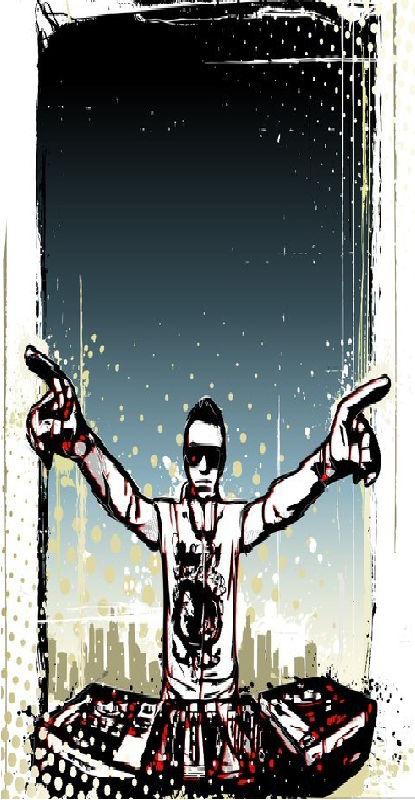
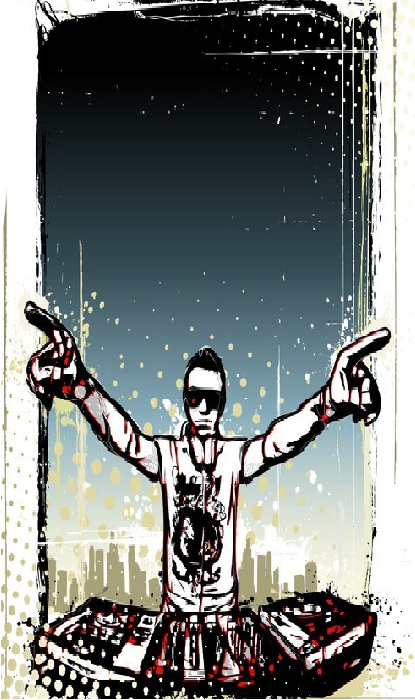
Home finished

diff --git a/web/home.css b/web/home.css
@@ -65,41 +65,274 @@ h2{
     color: white;
     font-size: 1.8rem;    
 }
+
+p{
+    text-align: center;
+    font-family: 'Times New Roman', Times, serif;
+    color: white;
+    font-size: 1rem;
+}
+
+
+h3{
+    text-align: center;
+    font-family: 'Times New Roman', Times, serif;
+    font-size: 1.8rem;
+    color: black;
+    text-transform: uppercase; 
+}
+
+h3::before{
+    content: attr(data-text);
+    position: absolute;
+    height: 4%;
+    color: #03495B;
+    -webkit-text-stroke: 0vw #363736;
+    border-right: 5px solid #03495B;
+    overflow: hidden;
+    animation: animate 8s linear infinite;
+}
+
+@keyframes animate
+{
+    0%,10%,100%
+    {
+        width: 0;
+    }
+    70%,90%{
+        width: 40%;
+    }
+}
 a{
     padding-left: 7.5%;}
-
-.live{
-    border-style: solid;
-    border-width: auto;
-    border-color: #F5C810;
-    text-align: center;
-    margin-top: 100px;
-    margin-bottom: 100px;
-    margin-right: 450px;
-    margin-left: 450px;
-    background-color: lightblue;
-}
 
 .video1{
     border-style: solid;
     border-width: medium;
-    border-color: #4C035B;
+    border-color: #03495B;
     align-items: center;
     float: left;
-    height: 800px;
+    height: 2000px;
     width: 415px;
     margin-left: 10px;
+    position: absolute;
+}
+.follow{
+    margin-top: 15px;
+    height: 420px;
+    width: 415px;
+    transition: none;
+    background-image: url(../pictures/instagram.jpg);
+    background-repeat: no-repeat;
+    background-position: center;
+    justify-content: right;
+    align-items: center;
+    float: right;
+}
+.follow p{
+    opacity: 0;
+    transform: scale(0);
+    transition: 1.2s;
+    font-size: 1.2rem;
+    color: white;
+    -webkit-transform: scale(0);
+    -moz-transform: scale(0);
+    -ms-transform: scale(0);
+    -o-transform: scale(0);
+    -webkit-transition: 1.2s;
+    -moz-transition: 1.2s;
+    -ms-transition: 1.2s;
+    -o-transition: 1.2s;
+}
+.follow:hover{
+    height: 420px;
+    width: 415px;
+    box-shadow: 0 0 0 700px rgba(0, 0, 0, 0.8) inset;
+}
+.follow:hover p{
+    opacity: 1;
+    transform: scale(1);
+    -webkit-transform: scale(1);
+    -moz-transform: scale(1);
+    -ms-transform: scale(1);
+    -o-transform: scale(1);
 }
 
-.icon2{
+.logo{
+    margin-top: 15px;
+    height: 570px;
+    width: 415px;
+    transition: none;
+    background-image: url(../pictures/icon2.jpg);
+    background-repeat: no-repeat;
+    background-position: center;
+    justify-content: right;
+    align-items: center;
+    float: right;
+}
+
+.follow2{
+    margin-top: 15px;
+    height: 270px;
+    width: 415px;
+    transition: none;
+    background-image: url(../pictures/tiktok.jpg);
+    background-repeat: no-repeat;
+    background-position: center;
+    justify-content: right;
+    align-items: center;
+    float: right;
+}
+.follow2 p{
+    opacity: 0;
+    transform: scale(0);
+    transition: 1.2s;
+    font-size: 1.2rem;
+    color: white;
+    -webkit-transform: scale(0);
+    -moz-transform: scale(0);
+    -ms-transform: scale(0);
+    -o-transform: scale(0);
+    -webkit-transition: 1.2s;
+    -moz-transition: 1.2s;
+    -ms-transition: 1.2s;
+    -o-transition: 1.2s;
+}
+.follow2:hover{
+    height: 270px;
+    width: 415px;
+    box-shadow: 0 0 0 700px rgba(0, 0, 0, 0.8) inset;
+}
+.follow2:hover p{
+    opacity: 1;
+    transform: scale(1);
+    -webkit-transform: scale(1);
+    -moz-transform: scale(1);
+    -ms-transform: scale(1);
+    -o-transform: scale(1);
+}
+
+.about{
+    border-style: solid;
+    border-width: medium;
+    border-color: #03495B;
+    align-items: center;
+    float: right;
+    height: 2000px;
+    width: 415px;
+    margin-right: 10px;
+}
+
+.drinks{
+    height: 700px;
+    width: 415px;
+    transition: none;
+    background-image: url(../pictures/drinks.jpg);
+    background-repeat: no-repeat;
+    background-position: center;
+    justify-content: right;
+    align-items: center;
+    float: right;
+}
+.drinks p{
+    opacity: 0;
+    transform: scale(0);
+    transition: 1.2s;
+    font-size: 1.2rem;
+    color: white;
+    -webkit-transform: scale(0);
+    -moz-transform: scale(0);
+    -ms-transform: scale(0);
+    -o-transform: scale(0);
+    -webkit-transition: 1.2s;
+    -moz-transition: 1.2s;
+    -ms-transition: 1.2s;
+    -o-transition: 1.2s;
+}
+.drinks:hover{
+    height: 700px;
+    width: 415px;
+    box-shadow: 0 0 0 700px rgba(0, 0, 0, 0.8) inset;
+}
+.drinks:hover p{
+    opacity: 1;
+    transform: scale(1);
+    -webkit-transform: scale(1);
+    -moz-transform: scale(1);
+    -ms-transform: scale(1);
+    -o-transform: scale(1);
+}
+
+.logo{
+    margin-top: 15px;
+    height: 570px;
+    width: 415px;
+    transition: none;
+    background-image: url(../pictures/icon2.jpg);
+    background-repeat: no-repeat;
+    background-position: center;
+    justify-content: right;
+    align-items: center;
+    float: right;
+}
+
+.explore{
+    margin-top: 15px;
+    height: 700px;
+    width: 415px;
+    transition: none;
+    background-image: url(../pictures/party.jpg);
+    background-repeat: no-repeat;
+    background-position: center;
+    justify-content: right;
+    align-items: center;
+    float: right;
+}
+.explore p{
+    opacity: 0;
+    transform: scale(0);
+    transition: 1.2s;
+    font-size: 1.2rem;
+    color: white;
+    -webkit-transform: scale(0);
+    -moz-transform: scale(0);
+    -ms-transform: scale(0);
+    -o-transform: scale(0);
+    -webkit-transition: 1.2s;
+    -moz-transition: 1.2s;
+    -ms-transition: 1.2s;
+    -o-transition: 1.2s;
+}
+.explore:hover{
+    height: 700px;
+    width: 415px;
+    box-shadow: 0 0 0 700px rgba(0, 0, 0, 0.8) inset;
+}
+.explore:hover p{
+    opacity: 1;
+    transform: scale(1);
+    -webkit-transform: scale(1);
+    -moz-transform: scale(1);
+    -ms-transform: scale(1);
+    -o-transform: scale(1);
+}
+
+
+.text{
     border-style: solid;
     border-width: medium;
     border-color: #4C035B;
     align-items: center;
-    float: right;
-    height: 800px;
-    width: 415px;
-    margin-right: 10px;
+    background-image: url(../pictures/DJ.jpg);
+    background-repeat: no-repeat;
+    background-size: cover;
+    height: 2000px;
+    width: 900px;
+    position: absolute;
+    left: 0;
+    right: 0;
+    margin-left: auto;
+    margin-right: auto;
 }
 
 .mySlides{
@@ -109,7 +342,5 @@ a{
 
 body{
     background-color: black;
-    background-repeat: no-repeat;
-    background-size: cover;
     font-family: 'Times New Roman', Times, serif;
 }

diff --git a/web/home.html b/web/home.html
@@ -21,18 +21,74 @@
             </ul>
         </div>
     </div>
-    <div class="live">
-        <img src="../pictures/hiphop.jpg" height="200px" width="200px">
+    <br><br>
+    <div class="information">
+        <h3 data-text="Working hours:
+        Friday and Saturday 20:00-6:00">Working hours:
+            Friday and Saturday from 20:00-6:00
+        </h3> 
     </div>
+    <br><br>
+    <div class="text">
+    <h2>RAP BATTLE</h2>
+        <br>
+        <p>Only on Saturday, 8.5.2022.!
+            <br><br>
+            <img src="../pictures/rap.jpg" width="400px" height="400px">
+            <br><br>
+        See our local musicians fighting for glory and fame!
+        </p>
+        <br><br>
+    <h2>TECHNO NIGHT</h2>
+        <br>
+        <p>Friday 13.5.2022. and Saturday 14.5.2022.!
+            <br><br>
+            <img src="../pictures/technomusic.png" width="400px" height="400px">
+            <br><br>
+            Enjoy in a great sound of our talented musicians!
+        </p>
+        <br><br>
+        <h2>ROCK PARTY</h2>
+        <br>
+        <p>Saturday 21.5.2022.!
+            <br><br>
+            Intersted in a night full of famous rock songs?
+            <br><br>
+            <img src="../pictures/rock.jpeg" width="400px" height="400px">
+            <br><br>
+            Just at us listen to the greatests hits!
+        </p>   
+    </div>     
     <div class="video1" style="max-width:415px">
         <img class="mySlides" src="../pictures/hiphopposter.jpg" style="width:100%">
         <img class="mySlides" src="../pictures/rockposter.png" style="width:100%">
         <img class="mySlides" src="../pictures/poster.png" style="width:100%">
+        <div class="logo"></div>
+        <div class="follow">
+            <p>Follow us on Instagram: @LionClubCroatia</p>
+        </div>
+        <div class="follow2">
+            <p>You can also follow us on TikTok: LionClubCroatia</p>
+        </div>
     </div>
 
-    <div class="icon2" style="max-width: 415px">
-        <img src="../pictures/icon2.png" style="width: 100%">
+
+    <div class="about" style="max-width:415px">
+        <div class="drinks">
+        <p>We offer you great number of most famous drinks!</p>
+        <br><br>
+        <p>We have contracts with the best companies just to make our visitors happy.</p>
+        <br><br>
+        <p>We definitely recommend to try out our new Gin and Whiskey!</p>
+        </div>
+        <div class="logo"></div>
+        <div class="explore">
+            <p>We try to arrange famous musicians all over the world!</p>
+            <br><br>
+            <p>But we also promote our local musicians by playing their music on regular Saturdays!</p>
+        </div>
     </div>
+
     <script>
         var myIndex = 0;
         carousel();
